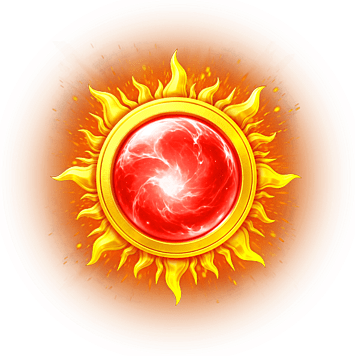
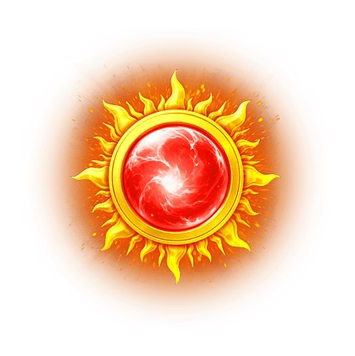
Reduce Helios scatter symbol art size

diff --git a/themes/helios-triple-sun.js b/themes/helios-triple-sun.js
@@ -1,1 +1,1 @@
-window.SLOT_GAME_CONFIG = {"schemaVersion":1,"id":"helios-triple-sun-preview","assets":{"frame":{"portrait":"assets/helios-triple-sun/frame.webp?v=helios-preview-2","fallback":"assets/helios-triple-sun/frame.webp?v=helios-preview-2"},"loading":"assets/helios-triple-sun/loading.webp?v=helios-preview-2","spin":{"normal":"assets/helios-triple-sun/spin-normal.webp?v=helios-preview-1","pressed":"assets/helios-triple-sun/spin-pressed.webp?v=helios-preview-1"},"indicators":{"balance":"assets/helios-triple-sun/transparent.webp?v=helios-preview-1","bet":"assets/helios-triple-sun/transparent.webp?v=helios-preview-1","lines":"assets/helios-triple-sun/transparent.webp?v=helios-preview-1"},"announcementFrame":"assets/helios-triple-sun/transparent.webp?v=helios-preview-1","bigWin":"assets/helios-triple-sun/logo.webp?v=helios-preview-1","lowWin":"assets/helios-triple-sun/logo.webp?v=helios-preview-1","paytableFrame":"assets/helios-triple-sun/transparent.webp?v=helios-preview-1","winFrames":[{"key":"helios-gold-win","src":"assets/helios-triple-sun/win-glow.webp?v=helios-preview-1"}]},"symbols":[{"key":"blue-gem","label":"Gema azul","asset":"assets/helios-triple-sun/blue-gem.webp?v=helios-preview-1"},{"key":"green-gem","label":"Gema verde","asset":"assets/helios-triple-sun/green-gem.webp?v=helios-preview-1"},{"key":"purple-gem","label":"Gema violeta","asset":"assets/helios-triple-sun/purple-gem.webp?v=helios-preview-1"},{"key":"orange-gem","label":"Gema ámbar","asset":"assets/helios-triple-sun/orange-gem.webp?v=helios-preview-1"},{"key":"heart","label":"Corazón","asset":"assets/helios-triple-sun/heart.webp?v=helios-preview-1"},{"key":"blue-ring","label":"Anillo celeste","asset":"assets/helios-triple-sun/blue-ring.webp?v=helios-preview-1"},{"key":"gold-coin","label":"Moneda solar","asset":"assets/helios-triple-sun/gold-coin.webp?v=helios-preview-1"},{"key":"crown-coin","label":"Corona solar","asset":"assets/helios-triple-sun/crown-coin.webp?v=helios-preview-1"},{"key":"chalice","label":"Cáliz","asset":"assets/helios-triple-sun/chalice.webp?v=helios-preview-1"},{"key":"goddess","label":"Diosa solar","asset":"assets/helios-triple-sun/goddess.webp?v=helios-preview-1"},{"key":"wild-sun","label":"WILD solar","asset":"assets/helios-triple-sun/wild-sun.webp?v=helios-preview-1"},{"key":"scatter-red","label":"Sol rojo","asset":"assets/helios-triple-sun/scatter-red.webp?v=helios-preview-1"},{"key":"scatter-yellow","label":"Sol dorado","asset":"assets/helios-triple-sun/scatter-yellow.webp?v=helios-preview-1"},{"key":"scatter-blue","label":"Sol azul","asset":"assets/helios-triple-sun/scatter-blue.webp?v=helios-preview-1"},{"key":"bonus-crown","label":"BONUS","asset":"assets/helios-triple-sun/bonus-crown.webp?v=helios-preview-1"}],"visual":{"symbolScale":0.94,"symbolScaleY":1,"symbolFit":"cell-width","reelPerspective":0.015},"defaults":{"balance":1000,"bet":20,"jackpot":0,"lines":20,"minBet":10,"maxBet":500,"betStep":10,"minLines":5,"maxLines":20,"lineStep":5,"jackpotContributionRate":0,"minimumJackpotContribution":0,"bigWinBetMultiplier":10,"lowWinBetMultiplier":3,"freeSpins":0},"specialSymbols":{"wild":"wild-sun","scatters":["scatter-red","scatter-yellow","scatter-blue"],"bonus":"bonus-crown","animatedWin":"goddess"},"rules":{"cols":5,"rows":3,"paylines":[[1,1,1,1,1],[0,0,0,0,0],[2,2,2,2,2],[0,1,2,1,0],[2,1,0,1,2],[0,0,1,2,2],[2,2,1,0,0],[1,0,0,0,1],[1,2,2,2,1],[1,0,1,0,1],[1,2,1,2,1],[0,1,1,1,0],[2,1,1,1,2],[0,1,0,1,0],[2,1,2,1,2],[1,1,0,1,1],[1,1,2,1,1],[0,0,2,0,0],[2,2,0,2,0],[0,2,0,2,0]],"lineColors":["#ffd166","#4cc9f0","#ef476f","#a78bfa","#06d6a0","#fb8500","#00b4d8","#f72585","#90be6d","#f9c74f","#43aa8b","#577590","#b5179e","#e63946","#52b788","#ffbe0b","#48cae4","#c77dff","#80ed99","#ff6b6b"],"symbolWeights":[95,95,90,90,90,85,70,60,50,45,40,20,20,20,20],"weightTotal":890,"paytableCounts":[3,4,5],"minimumMatch":3,"specialMinimumMatch":3,"paytable":{"0":{"3":0.8,"4":2,"5":8},"1":{"3":0.8,"4":2,"5":8},"2":{"3":0.8,"4":2,"5":8},"3":{"3":0.8,"4":2,"5":8},"4":{"3":0.8,"4":2,"5":8},"5":{"3":1.2,"4":4,"5":16},"6":{"3":1.5,"4":5,"5":20},"7":{"3":2,"4":8,"5":32},"8":{"3":2.5,"4":10,"5":40},"9":{"3":3,"4":12,"5":60},"10":{"3":5,"4":20,"5":100},"11":{"3":0.2,"4":1,"5":4},"12":{"3":0.2,"4":1,"5":4},"13":{"3":0.2,"4":1,"5":4}},"bonusFreeSpins":{"3":5,"4":8,"5":15},"paytableOrder":[0,1,2,3,4,5,6,7,8,9,10,11,12,13,14],"payoutScale":1},"features":{"allowFreeSpinRetrigger":false,"keyboardControls":true,"turboSpin":{"multiplier":2.2}},"ui":{"name":"Helios Triple Sun · prueba inicial","numberLocale":"es-AR","scatterPaytableLabel":"{label}","freeSpinsSuffix":"giros","paytableMultiplierSuffix":"×","paytableMultiplierPrecision":2,"announcementAlt":"Helios Triple Sun","frameAlt":"Fondo Helios Triple Sun","bigWinAlt":"Premio grande de prueba","lowWinAlt":"Premio de prueba","paytableBrand":"HELIOS TRIPLE SUN · PROTOTIPO","paytableTitle":"Tabla provisional","paytableSubtitle":"20 líneas · premios de demostración","paytableSymbolHeader":"Símbolo","rulesTitle":"REGLAS DE PRUEBA","spinLabel":"Girar","menuLabel":"Premios","loadingLabel":"Cargando Helios","lowWinTitle":"¡PREMIO!","labels":{"balance":"SALDO","bet":"APUESTA","lines":"LÍNEAS","win":"PREMIO","jackpot":"JACKPOT"},"messages":{"autoSpin":"AUTO","stopAutoSpin":"PARAR","stopAutoSpinOverlay":"PARAR AUTO","insufficientBalance":"SALDO INSUFICIENTE","bonusAward":"BONUS +{awarded} GIROS GRATIS\nRESTANTES: {remaining}","scatterAward":"SCATTER +{amount}\nPREMIO TOTAL: {total}","prize":"PREMIO: {amount}"},"paytableRules":["PROTOTIPO: premios y probabilidades provisionales, no son los del proveedor.","Los premios de línea cuentan de izquierda a derecha en 20 líneas configuradas para esta prueba.","Los tres soles de colores se cuentan juntos como SCATTER en esta primera versión.","3, 4 o 5 BONUS otorgan 5, 8 o 15 giros gratis de prueba.","Las cascadas originales y la matemática/RTP oficial todavía no están implementados."]},"colors":{"accent":"#ffd56b","glow":"#ff9d28","highlight":"#fff4cb","panel":"#180c38","particlePalette":["#ffd66b","#ffad32","#fff3c6","#7ddfff","#db77ff"],"lowWinParticlePalette":["#ffd34d","#fff0a8","#d89039","#fff"],"winningTint":"#fff3c6"}};
+window.SLOT_GAME_CONFIG = {"schemaVersion":1,"id":"helios-triple-sun-preview","assets":{"frame":{"portrait":"assets/helios-triple-sun/frame.webp?v=helios-preview-2","fallback":"assets/helios-triple-sun/frame.webp?v=helios-preview-2"},"loading":"assets/helios-triple-sun/loading.webp?v=helios-preview-2","spin":{"normal":"assets/helios-triple-sun/spin-normal.webp?v=helios-preview-1","pressed":"assets/helios-triple-sun/spin-pressed.webp?v=helios-preview-1"},"indicators":{"balance":"assets/helios-triple-sun/transparent.webp?v=helios-preview-1","bet":"assets/helios-triple-sun/transparent.webp?v=helios-preview-1","lines":"assets/helios-triple-sun/transparent.webp?v=helios-preview-1"},"announcementFrame":"assets/helios-triple-sun/transparent.webp?v=helios-preview-1","bigWin":"assets/helios-triple-sun/logo.webp?v=helios-preview-1","lowWin":"assets/helios-triple-sun/logo.webp?v=helios-preview-1","paytableFrame":"assets/helios-triple-sun/transparent.webp?v=helios-preview-1","winFrames":[{"key":"helios-gold-win","src":"assets/helios-triple-sun/win-glow.webp?v=helios-preview-1"}]},"symbols":[{"key":"blue-gem","label":"Gema azul","asset":"assets/helios-triple-sun/blue-gem.webp?v=helios-preview-1"},{"key":"green-gem","label":"Gema verde","asset":"assets/helios-triple-sun/green-gem.webp?v=helios-preview-1"},{"key":"purple-gem","label":"Gema violeta","asset":"assets/helios-triple-sun/purple-gem.webp?v=helios-preview-1"},{"key":"orange-gem","label":"Gema ámbar","asset":"assets/helios-triple-sun/orange-gem.webp?v=helios-preview-1"},{"key":"heart","label":"Corazón","asset":"assets/helios-triple-sun/heart.webp?v=helios-preview-1"},{"key":"blue-ring","label":"Anillo celeste","asset":"assets/helios-triple-sun/blue-ring.webp?v=helios-preview-1"},{"key":"gold-coin","label":"Moneda solar","asset":"assets/helios-triple-sun/gold-coin.webp?v=helios-preview-1"},{"key":"crown-coin","label":"Corona solar","asset":"assets/helios-triple-sun/crown-coin.webp?v=helios-preview-1"},{"key":"chalice","label":"Cáliz","asset":"assets/helios-triple-sun/chalice.webp?v=helios-preview-1"},{"key":"goddess","label":"Diosa solar","asset":"assets/helios-triple-sun/goddess.webp?v=helios-preview-1"},{"key":"wild-sun","label":"WILD solar","asset":"assets/helios-triple-sun/wild-sun.webp?v=helios-preview-1"},{"key":"scatter-red","label":"Sol rojo","asset":"assets/helios-triple-sun/scatter-red.webp?v=helios-preview-2"},{"key":"scatter-yellow","label":"Sol dorado","asset":"assets/helios-triple-sun/scatter-yellow.webp?v=helios-preview-2"},{"key":"scatter-blue","label":"Sol azul","asset":"assets/helios-triple-sun/scatter-blue.webp?v=helios-preview-2"},{"key":"bonus-crown","label":"BONUS","asset":"assets/helios-triple-sun/bonus-crown.webp?v=helios-preview-1"}],"visual":{"symbolScale":0.94,"symbolScaleY":1,"symbolFit":"cell-width","reelPerspective":0.015},"defaults":{"balance":1000,"bet":20,"jackpot":0,"lines":20,"minBet":10,"maxBet":500,"betStep":10,"minLines":5,"maxLines":20,"lineStep":5,"jackpotContributionRate":0,"minimumJackpotContribution":0,"bigWinBetMultiplier":10,"lowWinBetMultiplier":3,"freeSpins":0},"specialSymbols":{"wild":"wild-sun","scatters":["scatter-red","scatter-yellow","scatter-blue"],"bonus":"bonus-crown","animatedWin":"goddess"},"rules":{"cols":5,"rows":3,"paylines":[[1,1,1,1,1],[0,0,0,0,0],[2,2,2,2,2],[0,1,2,1,0],[2,1,0,1,2],[0,0,1,2,2],[2,2,1,0,0],[1,0,0,0,1],[1,2,2,2,1],[1,0,1,0,1],[1,2,1,2,1],[0,1,1,1,0],[2,1,1,1,2],[0,1,0,1,0],[2,1,2,1,2],[1,1,0,1,1],[1,1,2,1,1],[0,0,2,0,0],[2,2,0,2,0],[0,2,0,2,0]],"lineColors":["#ffd166","#4cc9f0","#ef476f","#a78bfa","#06d6a0","#fb8500","#00b4d8","#f72585","#90be6d","#f9c74f","#43aa8b","#577590","#b5179e","#e63946","#52b788","#ffbe0b","#48cae4","#c77dff","#80ed99","#ff6b6b"],"symbolWeights":[95,95,90,90,90,85,70,60,50,45,40,20,20,20,20],"weightTotal":890,"paytableCounts":[3,4,5],"minimumMatch":3,"specialMinimumMatch":3,"paytable":{"0":{"3":0.8,"4":2,"5":8},"1":{"3":0.8,"4":2,"5":8},"2":{"3":0.8,"4":2,"5":8},"3":{"3":0.8,"4":2,"5":8},"4":{"3":0.8,"4":2,"5":8},"5":{"3":1.2,"4":4,"5":16},"6":{"3":1.5,"4":5,"5":20},"7":{"3":2,"4":8,"5":32},"8":{"3":2.5,"4":10,"5":40},"9":{"3":3,"4":12,"5":60},"10":{"3":5,"4":20,"5":100},"11":{"3":0.2,"4":1,"5":4},"12":{"3":0.2,"4":1,"5":4},"13":{"3":0.2,"4":1,"5":4}},"bonusFreeSpins":{"3":5,"4":8,"5":15},"paytableOrder":[0,1,2,3,4,5,6,7,8,9,10,11,12,13,14],"payoutScale":1},"features":{"allowFreeSpinRetrigger":false,"keyboardControls":true,"turboSpin":{"multiplier":2.2}},"ui":{"name":"Helios Triple Sun · prueba inicial","numberLocale":"es-AR","scatterPaytableLabel":"{label}","freeSpinsSuffix":"giros","paytableMultiplierSuffix":"×","paytableMultiplierPrecision":2,"announcementAlt":"Helios Triple Sun","frameAlt":"Fondo Helios Triple Sun","bigWinAlt":"Premio grande de prueba","lowWinAlt":"Premio de prueba","paytableBrand":"HELIOS TRIPLE SUN · PROTOTIPO","paytableTitle":"Tabla provisional","paytableSubtitle":"20 líneas · premios de demostración","paytableSymbolHeader":"Símbolo","rulesTitle":"REGLAS DE PRUEBA","spinLabel":"Girar","menuLabel":"Premios","loadingLabel":"Cargando Helios","lowWinTitle":"¡PREMIO!","labels":{"balance":"SALDO","bet":"APUESTA","lines":"LÍNEAS","win":"PREMIO","jackpot":"JACKPOT"},"messages":{"autoSpin":"AUTO","stopAutoSpin":"PARAR","stopAutoSpinOverlay":"PARAR AUTO","insufficientBalance":"SALDO INSUFICIENTE","bonusAward":"BONUS +{awarded} GIROS GRATIS\nRESTANTES: {remaining}","scatterAward":"SCATTER +{amount}\nPREMIO TOTAL: {total}","prize":"PREMIO: {amount}"},"paytableRules":["PROTOTIPO: premios y probabilidades provisionales, no son los del proveedor.","Los premios de línea cuentan de izquierda a derecha en 20 líneas configuradas para esta prueba.","Los tres soles de colores se cuentan juntos como SCATTER en esta primera versión.","3, 4 o 5 BONUS otorgan 5, 8 o 15 giros gratis de prueba.","Las cascadas originales y la matemática/RTP oficial todavía no están implementados."]},"colors":{"accent":"#ffd56b","glow":"#ff9d28","highlight":"#fff4cb","panel":"#180c38","particlePalette":["#ffd66b","#ffad32","#fff3c6","#7ddfff","#db77ff"],"lowWinParticlePalette":["#ffd34d","#fff0a8","#d89039","#fff"],"winningTint":"#fff3c6"}};

diff --git a/helios-triple-sun.html b/helios-triple-sun.html
@@ -59,5 +59,5 @@ html[data-skin="helios"] #menu.menu{display:none!important;}
 </section></main>
 <button id="autoStopOverlay" class="auto-stop-overlay" type="button">PARAR AUTO</button>
 <div id="paytableModal" class="paytable-modal" aria-hidden="true"><div class="paytable-card"><button id="closePaytable" class="paytable-close" aria-label="Cerrar">×</button><div class="paytable-brand"></div><h2></h2><p class="paytable-subtitle"></p><table><thead><tr></tr></thead><tbody id="paytableRows"></tbody></table><div class="paytable-rules"><b></b></div></div></div>
-<script src="phaser.min.js?v=4.2.1"></script><script src="themes/helios-triple-sun.js?v=helios-preview-7"></script><script src="main.js?v=helios-engine-20261019-symbol-fit-4"></script>
+<script src="phaser.min.js?v=4.2.1"></script><script src="themes/helios-triple-sun.js?v=helios-preview-8"></script><script src="main.js?v=helios-engine-20261019-symbol-fit-4"></script>
 </body></html>
